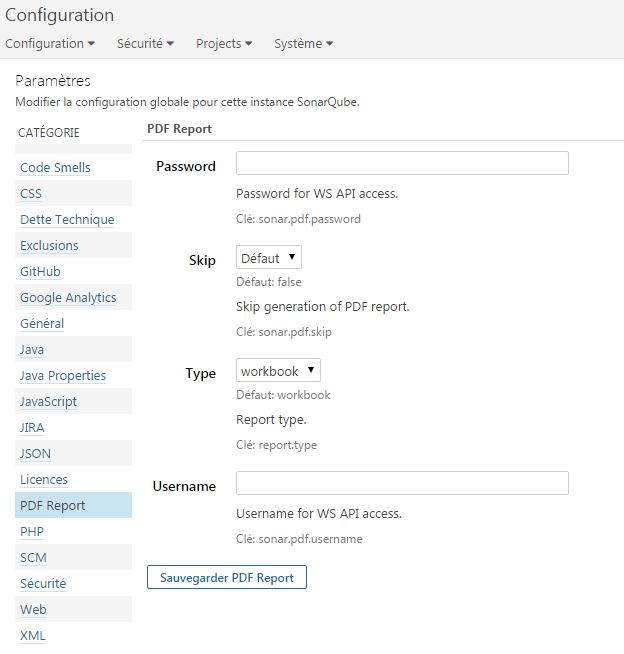
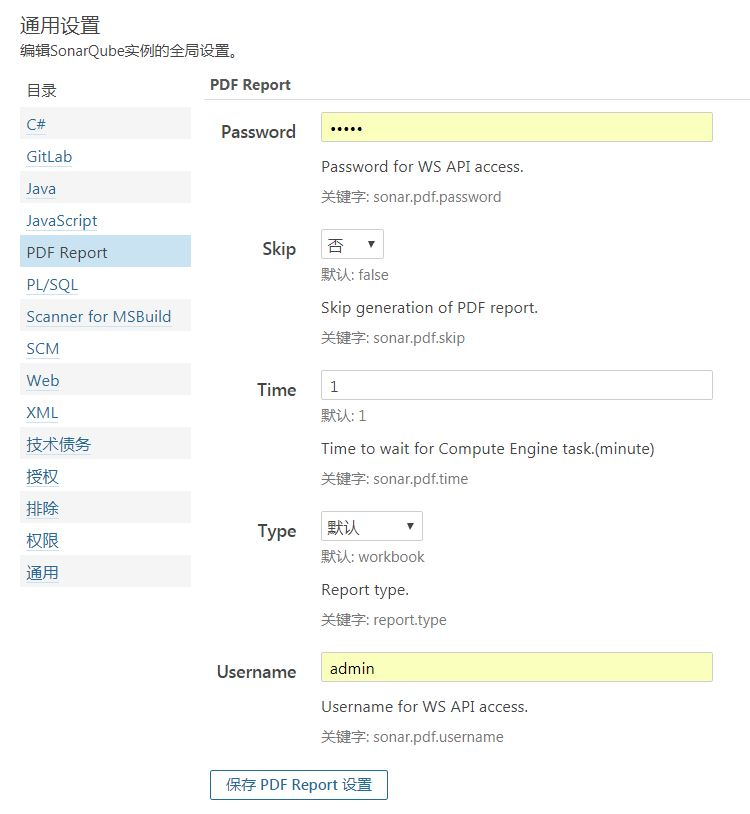
*）修改readme

diff --git a/README.md b/README.md
@@ -1,39 +1,41 @@
 Sonar PDF Report Plugin
 =========================
 
-Version compatbility : 5.3--5.6. Use maven to build from repository
+适用SonarQube版本 : 5.3--5.6。6.x以上版本未验证。
 
 ## Description / Features
 
-Generate a project quality report in PDF format with the most relevant information from SonarQube web interface. The report aims to be a deliverable as part of project documentation.
+本插件生成PDF格式的sonarqube报告.
 
-The report contains:
+报告包括以下内容:
 
-* Dashboard
-* Violations by categories
-* Hotspots:
-  * Most violated rules
-  * Most violated files
-  * Most complex classes
-  * Most duplicated files
-* Dashboard, violations and hotspots for all child modules (if they exists)
+* 概要
+* 静态分析
+* 动态分析
+* 编码问题
+* 热点:
+  * 违反最多的规则TOP10
+  * 违规最多的文件TOP5
+  * 复杂度最高的文件TOP5
+  * 重复行最多的文件TOP5
+* 子模块信息（只有在存在时生成）
 
 ## Installation
 
-1. Install the plugin into the SONARQUBE_HOME/extensions/plugins directory
-1. Restart SonarQube
+1. 将插件复制到SONARQUBE_HOME/extensions/plugins 目录
+1. 重启SonarQube
 
 ## Usage
 
-SonarQube PDF works as a post-job task. In this way, a PDF report is generated after each analysis in SonarQube.
+SonarQube PDF是一个 post-job任务. 因此，PDF 报告将在SonarQube分析结束后生成.
 
 ### Configuration
 
-You can skip report generation or select report type (executive or workbook) globally or at the project level. You can also provide an username/password if your project is secured by SonarQube user management:
+配置Skip为“否”时生成PDF报告功能启用。Time表示SonarQube分析多长时间后开始生成报告，默认为1分钟，若果分析时间超过1分钟，则需要调整Time。Time的时间设置必须大于SonarQube分析时长，否则可能无法生成报告或者生成报告不正确。
 
 ![Plugin Configuration](configuration.jpg?raw=true "Plugin Configuration")
 
 ### Download the report
 
-PDF report can be downloaded from the SonarQube GUI:
+PDF在仪表盘中下载，如果没有下载界面，需要在“配置控件”中添加该控件
 ![PDF Report example](output.jpg?raw=true "PDF Report example")
